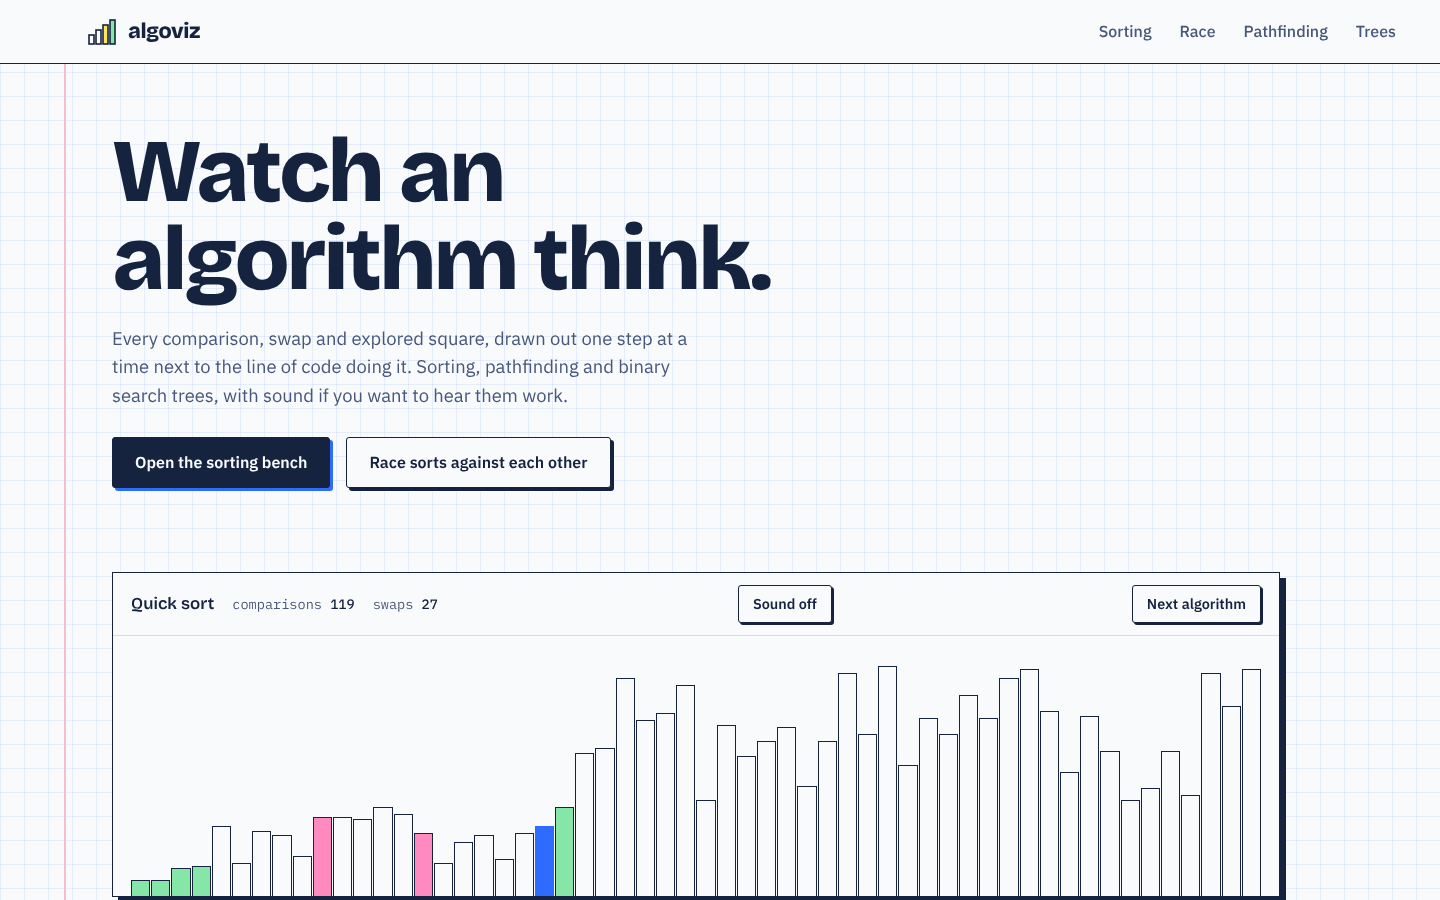
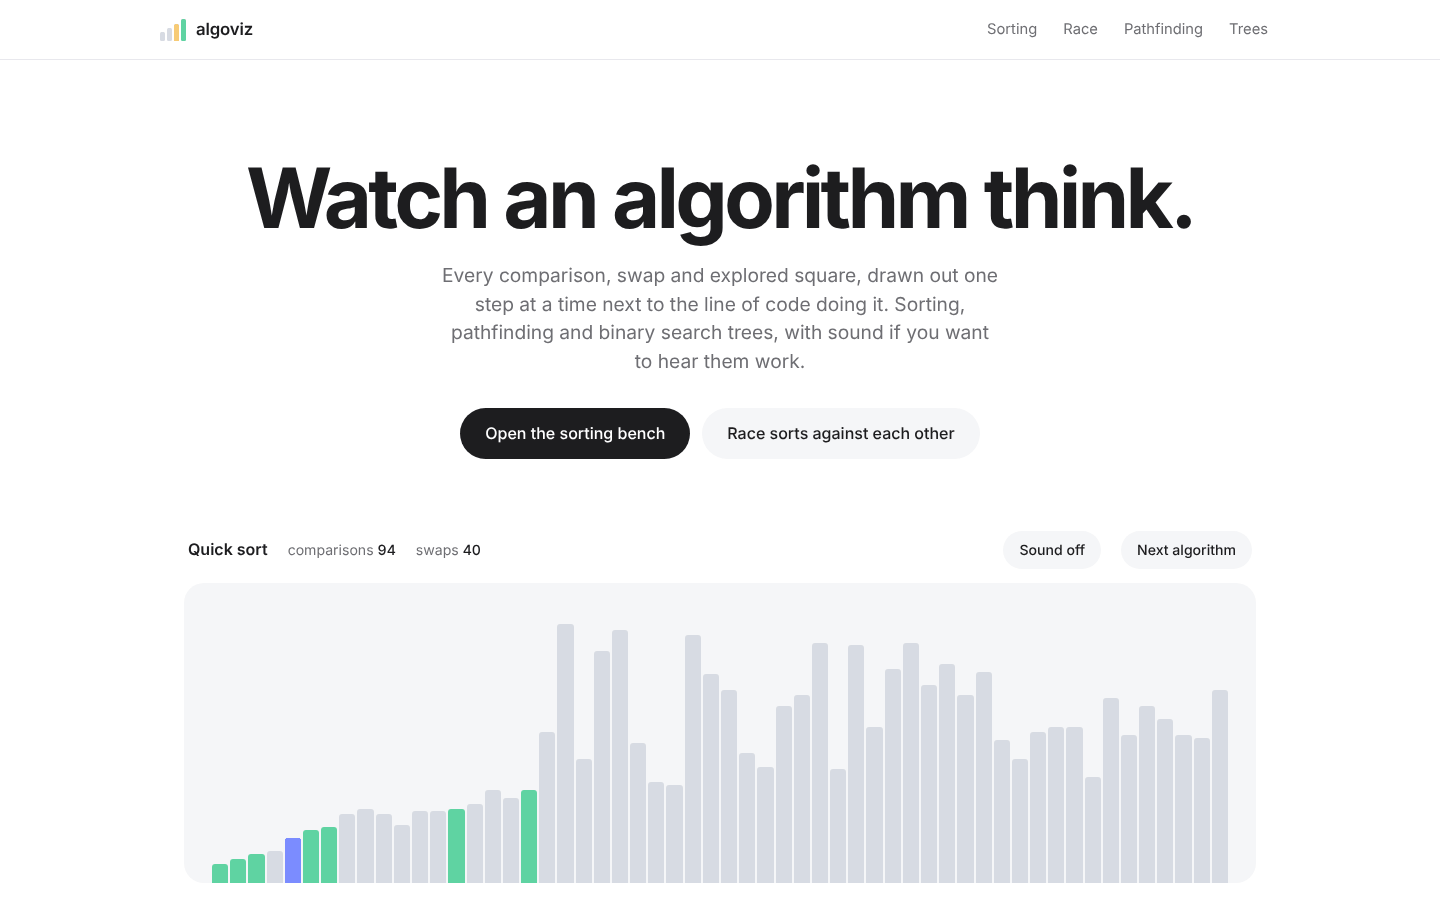
README, GIF and screenshots for the light design

diff --git a/README.md b/README.md
@@ -1,6 +1,6 @@
 # AlgoViz
 
-**Watch an algorithm think.** Sorting, pathfinding and binary search trees drawn out one step at a time on graph paper, with the line of code doing each step highlighted, a counter for every comparison and swap, and sound if you want to hear them work.
+**Watch an algorithm think.** Sorting, pathfinding and binary search trees drawn out one step at a time, with the line of code doing each step highlighted, a counter for every comparison and swap, and sound if you want to hear them work.
 
 ![Four sorts racing on the same 40 numbers: merge sort finishes first, bubble sort last](docs/race.gif)
 
@@ -58,7 +58,7 @@ Open http://localhost:3000. No database or API keys. On the sorting page, **Spac
 <details>
 <summary>Design</summary>
 
-The look is a graph-paper notebook: ink on squared paper with a red margin line, and highlighter for what the algorithm is doing. Yellow means comparing, pink means swapping, green means in its final place, and blue pencil marks the pivot. Type is Bricolage Grotesque and IBM Plex, self-hosted under `public/fonts` (SIL Open Font License).
+Clean and quiet, so the algorithm is the only thing moving: white space, soft rounded panels and calm state colours. Amber means comparing, coral means swapping, mint means in its final place, and periwinkle marks the pivot. Type is Inter, with IBM Plex Mono for code, self-hosted under `public/fonts` (SIL Open Font License).
 
 ![The home page: a real sort running live under the headline](docs/home.png)
 
